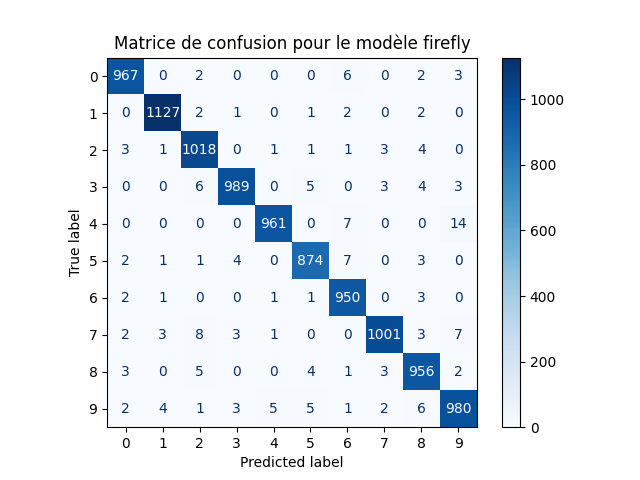
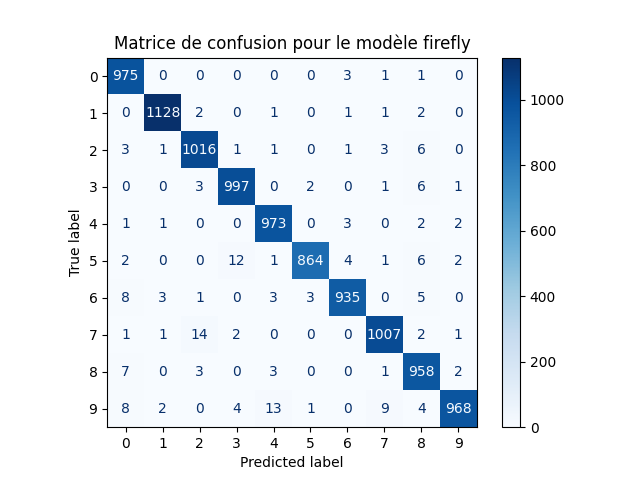
Corection de l'algorithme firefly. Rédaction du readme

diff --git a/optimizers/firefly_search.py b/optimizers/firefly_search.py
@@ -185,6 +185,7 @@ class FireFlySearch:
             for i in range(len(fitness_results) - 1):
                 arch_i, fitness_i = fitness_results[i]
                 firefly_i = architecture_to_vector(arch_i)
+                new_firefly = firefly_i.copy()
                 
                 # Compare with all brighter fireflies
                 for j in range(i):
@@ -199,7 +200,7 @@ class FireFlySearch:
                             alpha=current_alpha,
                             beta0=self.beta0,
                             gamma=self.gamma,
-                            firefly=firefly_i, 
+                            firefly=new_firefly, 
                             brightest_firefly=brightest_firefly
                         )
                         
@@ -222,10 +223,10 @@ class FireFlySearch:
                             
                             # Validate the firefly to ensure it represents a valid architecture
                             new_firefly = validateFirefly(new_firefly)
-                        
-                        if not np.array_equal(new_firefly, firefly_i):
-                            new_arch = vector_to_achitecture(new_firefly)
-                            new_generation.append(new_arch)
+
+                if not np.array_equal(new_firefly, firefly_i):
+                    new_arch = vector_to_achitecture(new_firefly)
+                    new_generation.append(new_arch)
             
             # Evaluate new fireflies
             print(f"New generation size : {len(new_generation)}")
@@ -237,20 +238,6 @@ class FireFlySearch:
                 all_fireflies = fitness_results + new_fireflies
                 all_fireflies.sort(key=lambda x: x[1], reverse=True)
                 fitness_results = all_fireflies[:self.population_size]  # Keep population size constant
-                
-                #  Add random new fireflies if diversity is too low
-                if iteration < self.iterations - 1:  # Skip in the last iteration for convergence
-                    unique_fitnesses = len(set(fitness for _, fitness in fitness_results[:10]))
-                    if unique_fitnesses < 3:  # If top 10 have less than 3 different fitness values
-                        print("Low diversity detected, adding random fireflies")
-                        random_population = initializeFireflyPopulation(max(5, self.population_size//10))
-                        random_fitness_results = await self.evaluate_population(random_population)
-                        random_fireflies = [(arch, fitness) for arch, fitness in random_fitness_results]
-                        
-                        # Replace worst performing fireflies with random ones
-                        if random_fireflies:
-                            fitness_results = fitness_results[:self.population_size-len(random_fireflies)] + random_fireflies
-                            fitness_results.sort(key=lambda x: x[1], reverse=True)
             
             # Print statistics
             avg_fitness = sum(fitness for _, fitness in fitness_results) / len(fitness_results)

diff --git a/README.md b/README.md
@@ -1,1 +1,231 @@
 # Optimization-of-CNN-using-NAS-and-Metaheuristics
+
+## Summary :
+
+This project provides a **Python implementation of a pipeline for searching convolutional neural network (CNN) architectures** using **bio-inspired optimization algorithms**. The goal is to explore different optimization methods to automatically adjust certain **structural hyperparameters** of a CNN, within the framework of *Neural Architecture Search* (NAS).
+
+Three types of search algorithms are used:
+
+- **Random Search(Which serves as a basis for comparison)** 
+
+- **Genetic Algorithm (GA)**
+
+- **Firefly Algorithm**, inspired by the behavior of fireflies
+
+The defined search space focuses on several structural aspects of the network:
+
+- The **number of filters** in convolutional layers
+
+- The **size of filters**
+
+- The **presence of pooling layers**
+
+- The **strides** in convolutional and pooling layers
+
+- The **activation function** and **number of neurons** in fully connected layers
+
+The project sets up a complete pipeline, from defining the search space to running the optimization algorithms. It is mainly intended to test and compare different search strategies over a well-defined space, in a reproducible and extensible setup.
+
+The search space is deliberately limited in size to maintain a reasonable computational cost. Although fully configurable, the current implementation defines a **fixed but customizable set of candidate values** for each hyperparameter. For example:
+
+- **Filter sizes**: 4 possible values
+
+- **Number of filters**: 4 possible values
+
+- **Stride values**: 4 possible values
+
+- **Activation functions**: 4 different types
+
+- **Number of neurons in fully connected layers**: 16 possible values
+
+Some architectural parameters are **not included in the optimization process** and are set to fixed values, such as:
+
+- **Padding** in convolutional and pooling layers
+
+- **Minimum and maximum number of layers**
+
+These choices make the search space manageable while allowing for flexible experimentation through configuration changes.
+
+
+
+---
+
+## Requirement
+
+Before running this project, make sure you have the following Python packages installed:
+
+- [`PyTorch`](https://pytorch.org/) – for building and training the neural networks
+
+- [`NumPy`](https://numpy.org/) – for numerical operations and array manipulation
+
+- [`Matplotlib`](https://matplotlib.org/) – for plotting and visualizing results
+
+- [`Scikit-learn`](https://scikit-learn.org/) – for additional metrics and data preprocessing
+
+
+
+---
+
+## Installation
+
+Clone this repository to your local machine:
+
+```bash
+git clone git@github.com:bechirousmane/Optimization-of-CNN-using-NAS-and-Metaheuristics.git
+cd Optimization-of-CNN-using-NAS-and-Metaheuristics
+```
+
+Then install the required packages:
+
+```bash
+pip install -r requirements.txt
+```
+
+---
+
+## Project Structure
+
+This project follows a modular and organized structure, supporting parallel execution and customizable search configurations:
+
+```bash
+.
+├── data/                          # Dataset loading modules
+│   ├── cifar10_loader.py         # CIFAR-10 dataset loader
+│   ├── mnist_loader.py           # MNIST dataset loader
+│   └── __init__.py
+│
+├── evaluations/                  # NAS experiment logic
+│   ├── architecture_search.py    # Core logic for architecture evaluation
+│   ├── main.py                   # Main entry point to launch experiments
+│   └── utils/
+│       ├── logger.py             # Logging utility
+│       └── __init__.py
+│
+├── optimizers/                   # Search algorithm implementations
+│   ├── firefly_search.py         # Firefly Algorithm
+│   ├── genetic_search.py         # Genetic Algorithm
+│   ├── random_search.py          # Random Search
+│   └── __init__.py
+│
+├── ressource/                    # Resource manager for parallel execution
+│   ├── ressource_manager.py      # Coroutine-based queue for scheduling
+│   │                              # model evaluations across CPU/GPU resources
+│   └── __init__.py
+│
+├── search_spaces/                # Search space definitions and configurations
+│   ├── firefly/
+│   │   ├── fireflyOperation.py   # Firefly-specific encoding and operations
+│   │   ├── fireflyTest.py        # Unit test for Firefly search
+│   │   ├── searchSpaceFA.py      # Firefly-specific search space config
+│   │   └── __init__.py
+│   ├── genetic/
+│   │   ├── geneticOperation.py   # Genetic-specific encoding and operations
+│   │   ├── geneticTest.py        # Unit test for Genetic search
+│   │   ├── searchSpaceGA.py      # Genetic-specific search space config
+│   │   └── __init__.py
+│   ├── searchSpaceConfig.py      # Global config interface for all search spaces
+│   ├── utils.py                 
+│   └── __init__.py
+│
+├── train/                        # Model training modules
+│   ├── trainer.py                # Defines training loop for candidate models
+│   └── __init__.py
+│
+├── config.json                   # User-defined search configuration (fixed & variable params)
+├── requirements.txt              # Project dependencies
+
+```
+
+---
+
+## How to Run
+
+You can launch a Neural Architecture Search (NAS) experiment using the `main.py` script. The script supports multiple search algorithms and offers extensive configurability through command-line arguments or a JSON configuration file.
+
+```bash
+python3 evaluations/main.py [ALGORITHM] [OPTIONS]
+```
+
+- **`ALGORITHM`**: Specifies the search algorithm to use. Choices are:
+  
+  - `random`
+  
+  - `genetic`
+  
+  - `firefly`
+  
+  - `all` (runs all algorithms sequentially)
+
+### Example
+
+```bash
+python3 evaluations/main.py genetic --config config.json --epochs 10 --final-epochs 30 --population 20 --iterations 15 --batch-size 128 --data mnist
+```
+
+
+
+This command initiates a genetic algorithm-based NAS on the MNIST dataset, using the specified parameters.
+
+### Command-Line Arguments
+
+| Argument         | Type  | Default          | Description                                                         |
+| ---------------- | ----- | ---------------- | ------------------------------------------------------------------- |
+| `ALGORITHM`      | str   | —                | Search algorithm to execute (`random`, `genetic`, `firefly`, `all`) |
+| `--config`       | str   | `../config.json` | Path to the configuration file                                      |
+| `--epochs`       | int   | `10`             | Number of epochs for the search phase                               |
+| `--final-epochs` | int   | `30`             | Number of epochs for the final training phase                       |
+| `--batch-size`   | int   | `128`            | Batch size for training                                             |
+| `--population`   | int   | `20`             | Population size for evolutionary algorithms                         |
+| `--iterations`   | int   | `15`             | Number of search iterations                                         |
+| `--sub-train`    | int   | `20000`          | Number of training samples for optimization                         |
+| `--sub-test`     | int   | `5000`           | Number of test samples for optimization                             |
+| `--output-dir`   | str   | `./results`      | Directory to save results                                           |
+| `--seed`         | int   | `42`             | Random seed for reproducibility                                     |
+| `--data`         | str   | `mnist`          | Dataset to use (`mnist`, `cifar`)                                   |
+| `--input-dim`    | tuple | `(1, 28, 28)`    | Input dimensions of the data                                        |
+
+
+
+Genetic Algorithm Specific Parameters
+
+| Argument            | Type  | Default | Description                   |
+| ------------------- | ----- | ------- | ----------------------------- |
+| `--mutation-rate`   | float | `0.1`   | Mutation rate                 |
+| `--tournament-size` | int   | `5`     | Tournament size for selection |
+| `--crossover-prob`  | float | `0.75`  | Crossover probability         |
+
+Firefly Algorithm Specific Parameters
+
+| Argument   | Type  | Default | Description                                |
+| ---------- | ----- | ------- | ------------------------------------------ |
+| `--alpha`  | float | `0.5`   | Alpha parameter                            |
+| `--beta0`  | float | `1.0`   | Beta0 parameter                            |
+| `--gamma`  | float | `1.0`   | Gamma parameter                            |
+| `--sigma0` | float | `1.0`   | Standard deviation for normal distribution |
+| `--prob`   | float | `0.5`   | Probability to use normal distribution     |
+
+
+
+### Configuration File (`config.json`)
+
+You can define fixed and variable parameters for your search space in the `config.json` file. This includes:
+
+- **Filter sizes**: e.g., `[3, 5, 7, 9]`
+
+- **Number of filters**: e.g., `[16, 32, 64, 128]`
+
+- **Strides**: e.g., `[1, 2, 3, 4]`
+
+- **Activation functions**: e.g., `["relu", "tanh", "sigmoid", "leaky_relu"]`
+
+- **Number of neurons in fully connected layers**: e.g., `[8, 16, 24, 32, 48, 64, 80, 96, 112, 128, 160, 192, 224, 256, 384, 512]`
+
+- **Fixed parameters**: padding, maximum and minimum number of layers, etc.
+
+This allows for a fully configurable yet controlled search space.
+
+---
+
+## License
+
+This project is licensed under the MIT License.
